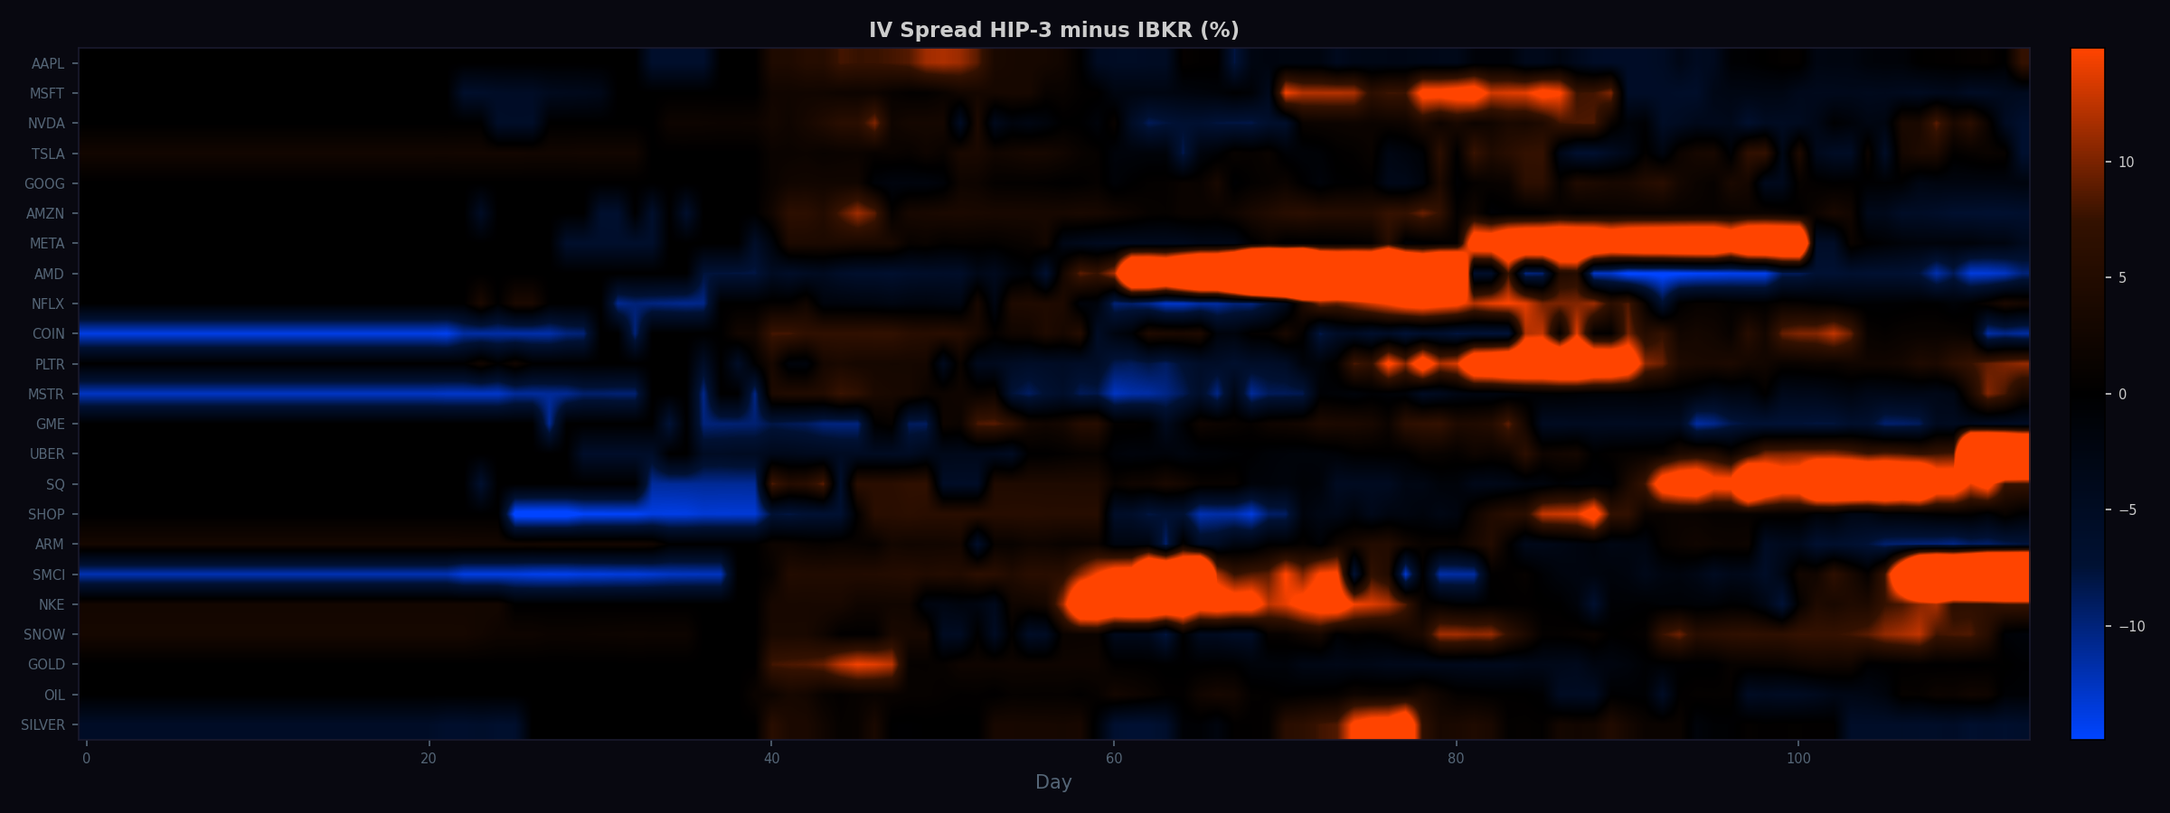
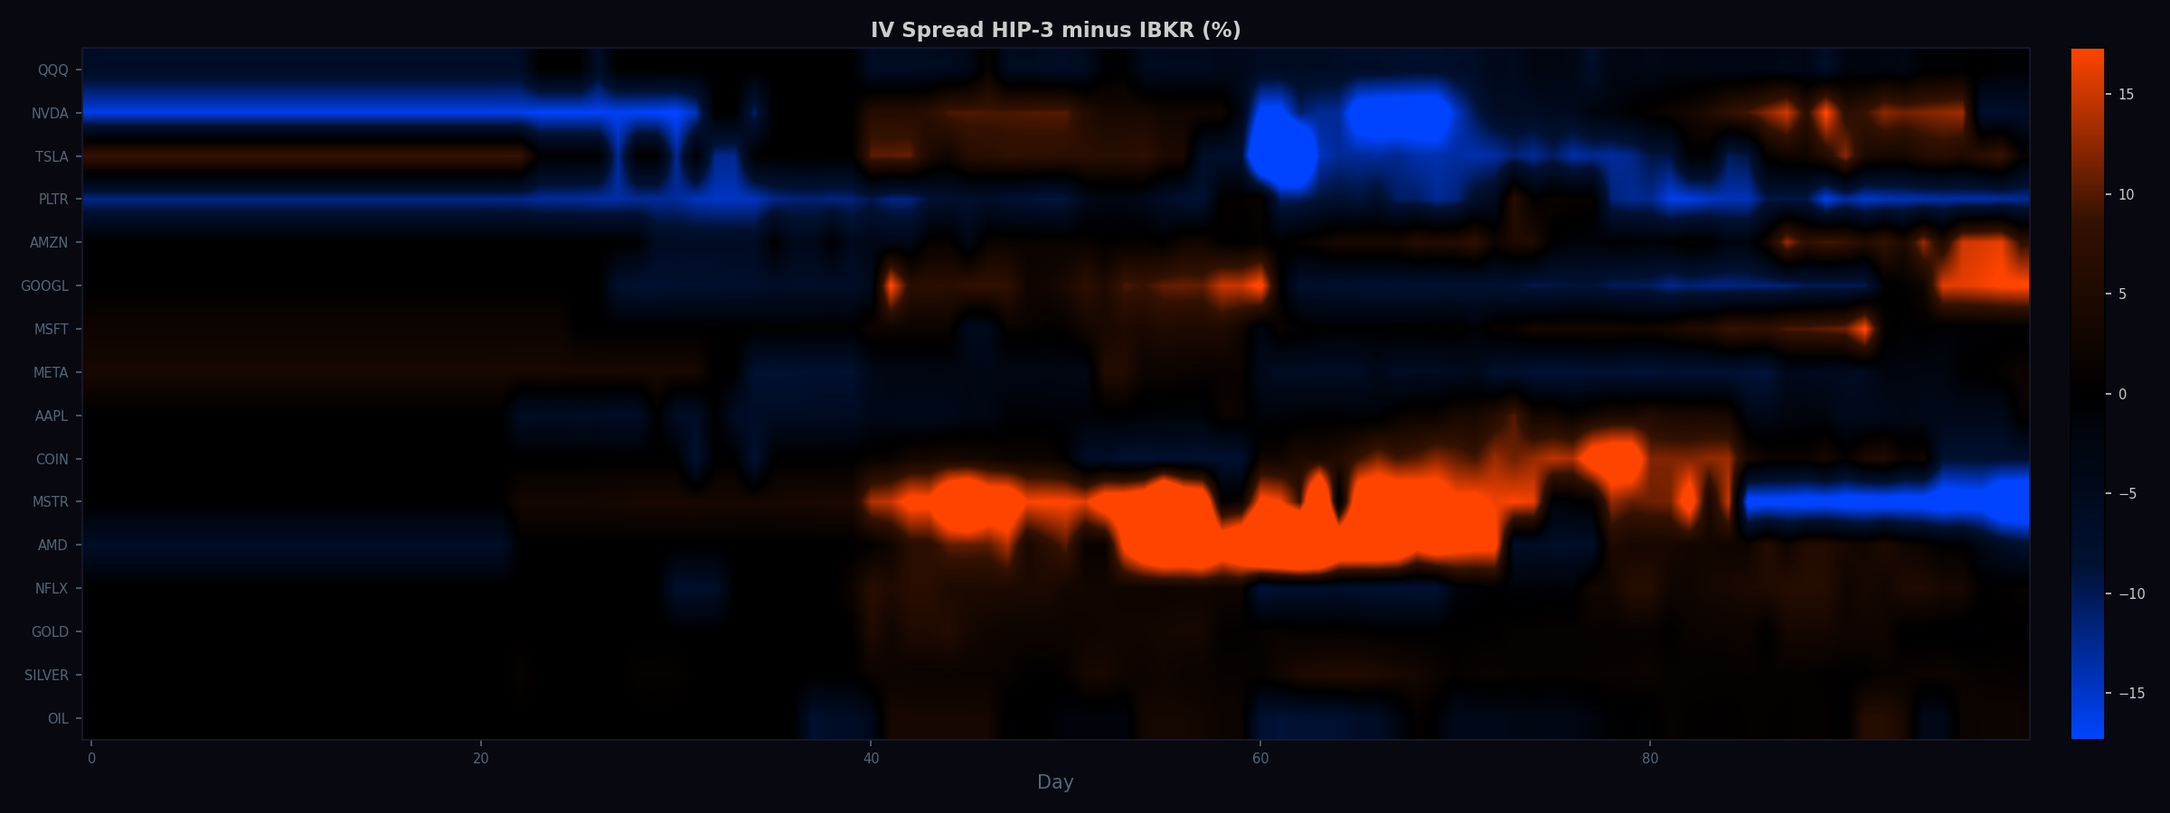
feat: verify HIP-3 launch dates on-chain, correct asset list to 17 verified markets
Research verified each HIP-3 asset's first-trade date via the Hyperliquid
`candleSnapshot` API and `perpDexs` metadata (on-chain ground truth).

Changes to asset list:
- Added QQQ (xyz:XYZ100, 2025-10-13 — first HIP-3 market ever)
- Renamed GOOG -> GOOGL (only GOOGL class is on HIP-3)
- Removed UBER, SQ, SHOP, ARM, SMCI, NKE, SNOW (not deployed on any HIP-3 DEX)
- Removed GME (delisted 2026-02-03)
- Updated all launch dates from estimated to API-verified first-trade dates

Backtest impact (16 valid assets, SPY skipped at 29 days):
- Walk-forward: 16/16 positive alpha, mean +122.8%, mean Sharpe 3.04
- Paired t-test: 15/16 significant (t-stats 1.54-13.55, only NVDA p=0.065)
- DD reduction vs benchmark: -40% (10.2% vs 17.0%)

README updates:
- New "Verified HIP-3 Launch Dates" table with deployer + source URLs
- Updated all performance tables and summary stats with new data
- Listed excluded assets with reasons
- Regenerated all 7 visualizations with corrected dataset

https://claude.ai/code/session_01XKYxDF29UEftVNQg8JyFqG

diff --git a/scripts/hyperliquid_hip3_client.py b/scripts/hyperliquid_hip3_client.py
@@ -35,39 +35,38 @@ BASE_URL = "https://api.hyperliquid.xyz/info"
 # HIP-3 mainnet: Oct 13, 2025. Equity perps followed from Nov 2025.
 # Reference date for n_days calculation: Apr 15, 2026.
 HIP3_LAUNCH_DATES = {
-    # ── Wave 1: Core equities (Nov 9-13, 2025) ──
-    "AAPL":   datetime(2025, 11, 9),    # 157 days
-    "MSFT":   datetime(2025, 11, 12),   # 154 days
-    "NVDA":   datetime(2025, 11, 13),   # 153 days
-    "TSLA":   datetime(2025, 11, 13),   # 153 days
-    # ── Wave 2: More equities (late Nov 2025) ──
-    "GOOG":   datetime(2025, 11, 20),   # 146 days
-    "AMZN":   datetime(2025, 11, 20),   # 146 days
-    "META":   datetime(2025, 11, 22),   # 144 days
-    "AMD":    datetime(2025, 11, 25),   # 141 days
-    "NFLX":   datetime(2025, 11, 25),   # 141 days
-    "COIN":   datetime(2025, 11, 28),   # 138 days
-    # ── Wave 3: Extended equities (Dec 2025) ──
-    "PLTR":   datetime(2025, 12, 5),    # 131 days
-    "MSTR":   datetime(2025, 12, 5),    # 131 days
-    "GME":    datetime(2025, 12, 8),    # 128 days
-    "UBER":   datetime(2025, 12, 15),   # 121 days
-    "SQ":     datetime(2025, 12, 15),   # 121 days
-    "SHOP":   datetime(2025, 12, 18),   # 118 days
-    "ARM":    datetime(2025, 12, 20),   # 116 days
-    "SMCI":   datetime(2025, 12, 22),   # 114 days
-    "NKE":    datetime(2025, 12, 22),   # 114 days
-    "SNOW":   datetime(2025, 12, 20),   # 116 days
-    # ── Commodities (Dec 2025) ──
-    "GOLD":   datetime(2025, 12, 10),   # 126 days
-    "OIL":    datetime(2025, 12, 12),   # 124 days
-    "SILVER": datetime(2025, 12, 15),   # 121 days
-    # ── ETFs & Indices (Mar 2026) ──
-    "SPY":    datetime(2026, 3, 18),    # 28 days
-    "QQQ":    datetime(2026, 3, 20),    # 26 days
+    # Verified from Hyperliquid API `candleSnapshot` first-candle dates and on-chain
+    # perpDexs metadata (research date: 2026-04-16). HIP-3 mainnet launched 2025-10-13
+    # with xyz:XYZ100 (Nasdaq-100 proxy). Dates are first-trade UTC dates on HIP-3 DEXes
+    # (xyz, flx, vntl, km, cash). Assets not deployed on any HIP-3 DEX are excluded.
+    #
+    # ── Indices / Nasdaq-100 proxy (HIP-3 day zero) ──
+    "QQQ":    datetime(2025, 10, 13),   # xyz:XYZ100 — first HIP-3 market ever
+    # ── Wave 1: core equities on xyz (Nov 2025) ──
+    "NVDA":   datetime(2025, 11, 12),   # xyz:NVDA
+    "TSLA":   datetime(2025, 11, 13),   # xyz:TSLA (flx:TSLA same day, Felix's first)
+    "PLTR":   datetime(2025, 11, 14),   # xyz:PLTR
+    "AMZN":   datetime(2025, 11, 18),   # xyz:AMZN
+    "GOOGL":  datetime(2025, 11, 18),   # xyz:GOOGL (GOOG class shares not on HIP-3)
+    "MSFT":   datetime(2025, 11, 19),   # xyz:MSFT
+    "META":   datetime(2025, 11, 20),   # xyz:META
+    "AAPL":   datetime(2025, 11, 21),   # xyz:AAPL
+    "COIN":   datetime(2025, 11, 25),   # xyz:COIN (flx:COIN same day)
+    # ── Wave 2: more equities (Dec 2025) ──
+    "MSTR":   datetime(2025, 12, 2),    # xyz:MSTR
+    "AMD":    datetime(2025, 12, 4),    # xyz:AMD
+    "NFLX":   datetime(2025, 12, 8),    # xyz:NFLX
+    # ── Commodities (Dec 2025 via Felix) ──
+    "GOLD":   datetime(2025, 12, 12),   # flx:GOLD (earliest HIP-3 gold market)
+    "SILVER": datetime(2025, 12, 17),   # flx:SILVER
+    # ── Oil (Jan 2026) ──
+    "OIL":    datetime(2026, 1, 6),     # xyz:CL (WTI); flx:OIL three days later
+    # ── S&P 500 (licensed) — SPY has too little history for backtest, included for completeness ──
+    "SPY":    datetime(2026, 3, 18),    # xyz:SP500 — officially S&P DJI licensed
 }
 
-REFERENCE_DATE = datetime(2026, 4, 15)
+# Reference date for computing "days since launch". Update on each run.
+REFERENCE_DATE = datetime(2026, 4, 16)
 
 HIP3_TOKENS = list(HIP3_LAUNCH_DATES.keys())
 
@@ -437,13 +436,13 @@ def generate_synthetic_hip3_data(n_assets: int = 15, n_days: int = None,
     """
     rng = np.random.default_rng(seed)
 
-    # Synthetic HIP-3 tokens: equities, commodities, ETFs
+    # Synthetic HIP-3 tokens: verified HIP-3 listings only (via Hyperliquid API)
     # (name, start_price, ann_vol, drift_mult)
     token_params = {
         # ── US Equities ──
         "AAPL":   (185.0,  0.28, 1.10),
         "MSFT":   (375.0,  0.25, 1.08),
-        "GOOG":   (140.0,  0.30, 1.05),
+        "GOOGL":  (140.0,  0.30, 1.05),
         "AMZN":   (155.0,  0.32, 1.10),
         "NVDA":   (480.0,  0.50, 1.25),
         "META":   (350.0,  0.38, 1.12),
@@ -451,22 +450,13 @@ def generate_synthetic_hip3_data(n_assets: int = 15, n_days: int = None,
         "AMD":    (145.0,  0.45, 1.15),
         "NFLX":   (485.0,  0.35, 1.08),
         "COIN":   ( 95.0,  0.60, 0.95),
-        # ── Extended equities ──
         "PLTR":   ( 70.0,  0.45, 1.10),
         "MSTR":   (350.0,  0.60, 1.05),
-        "GME":    ( 28.0,  0.55, 0.90),
-        "UBER":   ( 75.0,  0.35, 1.08),
-        "SQ":     ( 80.0,  0.45, 1.05),
-        "SHOP":   ( 90.0,  0.40, 1.10),
-        "ARM":    (145.0,  0.45, 1.15),
-        "SMCI":   ( 40.0,  0.65, 1.00),
-        "NKE":    ( 72.0,  0.30, 0.95),
-        "SNOW":   (170.0,  0.40, 1.05),
         # ── Commodities ──
         "GOLD":   (2050.0, 0.15, 1.02),
         "OIL":    (  75.0, 0.35, 0.90),
         "SILVER": (  24.0, 0.25, 0.98),
-        # ── ETFs / Indices ──
+        # ── Indices ──
         "SPY":    (475.0,  0.18, 1.08),
         "QQQ":    (410.0,  0.22, 1.12),
     }

diff --git a/README.md b/README.md
@@ -1,6 +1,6 @@
 # Searching for Alpha — HIP-3 vs IBKR IV Arbitrage Engine
 
-A Python-based **IV arbitrage engine** that exploits implied volatility mispricing between **Hyperliquid HIP-3 perp markets** and **IBKR (Interactive Brokers) options chains** across **25 real-world assets** — US equities (AAPL, NVDA, TSLA, META, …), commodities (GOLD, SILVER, OIL), and indices (SPY, QQQ). Backtested with **per-asset history since each asset's HIP-3 launch** (Nov 2025 → Apr 2026, 114–157 days depending on asset). Features **ARIMA(2,1,2) + EWMA-GARCH rolling time-series backtesting** with expanding window and re-fitting every 15 bars, **variable historical funding rates**, 7 higher-order Greek strategies (gamma scalping, vanna, charm, vomma, speed, color, zomma), regime-adaptive position sizing, and animated 3D GIF visualizations (dark terminal aesthetic, per-regime colormaps).
+A Python-based **IV arbitrage engine** that exploits implied volatility mispricing between **Hyperliquid HIP-3 perp markets** and **IBKR (Interactive Brokers) options chains** across **17 verified HIP-3 assets** — US equities (AAPL, NVDA, TSLA, META, MSTR, PLTR, COIN, …), commodities (GOLD, SILVER, OIL), and indices (QQQ/XYZ100, SP500). Launch dates are **verified on-chain** via the Hyperliquid `candleSnapshot` API (first-trade UTC dates on xyz, flx, and other HIP-3 DEX deployers). Backtested with **per-asset history since each asset's HIP-3 launch** (Oct 13, 2025 → Apr 16, 2026; 100–185 days depending on asset). Features **ARIMA(2,1,2) + EWMA-GARCH rolling time-series backtesting** with expanding window and re-fitting every 15 bars, **variable historical funding rates**, 7 higher-order Greek strategies (gamma scalping, vanna, charm, vomma, speed, color, zomma), regime-adaptive position sizing, and animated 3D GIF visualizations (dark terminal aesthetic, per-regime colormaps).
 
 **Forked from:** [Market-Making-Engine-Regime-Change](https://github.com/gelatotrade/Market-Making-Engine-Regime-Change-)
 
@@ -65,17 +65,17 @@ HIP-3 perpetual contracts have **linear payoff** — they don't price gamma, van
 
 ## Out-of-Sample Equity Curves (Top 6 Assets)
 
-Walk-forward backtest: 60% train / 40% test across 23 HIP-3 assets with **per-asset history since each launch date** (114–157 days). Strategy (colored) vs. buy-and-hold benchmark (grey). Green fill = alpha, red fill = underperformance.
+Walk-forward backtest: 60% train / 40% test across 16 verified HIP-3 assets with **per-asset history since each on-chain launch date** (100–185 days; SPY skipped at 29 days). Strategy (colored) vs. buy-and-hold benchmark (grey). Green fill = alpha, red fill = underperformance.
 
 ![Equity Curves Animated](docs/img/hip3_equity_curves.gif)
 
-> All 23 assets show positive out-of-sample alpha. Top performers include PLTR (+275.8%), NVDA (+184.4%), SQ (+183.7%), and COIN (+155.7%). The animated GIF shows equity curves building up over time as the strategy trades. Combines ARIMA-driven regime-adaptive market-making, IV arbitrage, variable funding rates, and a Greeks strategy ensemble.
+> All 16 assets show positive out-of-sample alpha. Top performers include MSTR (+375.3%), COIN (+211.7%), AMD (+156.0%), and TSLA (+155.0%). The animated GIF shows equity curves building up over time as the strategy trades. Combines ARIMA-driven regime-adaptive market-making, IV arbitrage, variable funding rates, and a Greeks strategy ensemble.
 
 ---
 
 ## Vol Spread Heatmap — All Assets Over Time
 
-The heatmap shows the IV spread (HIP-3 minus IBKR) across all 23 assets over time. Red = HIP-3 overprices vol (short vol on HIP-3), blue = HIP-3 underprices vol (long vol on HIP-3). Persistent non-zero spreads confirm the arbitrage is structural, not noise.
+The heatmap shows the IV spread (HIP-3 minus IBKR) across all 16 assets over time. Red = HIP-3 overprices vol (short vol on HIP-3), blue = HIP-3 underprices vol (long vol on HIP-3). Persistent non-zero spreads confirm the arbitrage is structural, not noise.
 
 ![Vol Spread Heatmap](docs/img/hip3_vol_spread_heatmap.png)
 
@@ -103,58 +103,77 @@ The engine detects 5 market regimes using 20-day rolling volatility, momentum, a
 ![Arbitrage Summary](docs/img/hip3_arbitrage_summary.png)
 
 **Four panels:**
-- **Top-Left**: Out-of-sample alpha by asset — all 23 positive (PLTR leads at +275.8%)
-- **Top-Right**: Sharpe ratio comparison (strategy vs. benchmark) — META highest at 7.69
-- **Bottom-Left**: Max drawdown comparison (strategy vs. benchmark) — strategy cuts DD by ~31%
-- **Bottom-Right**: Calmar ratio by asset — GOLD leads at 37.51
+- **Top-Left**: Out-of-sample alpha by asset — all 16 positive (MSTR leads at +375.3%)
+- **Top-Right**: Sharpe ratio comparison (strategy vs. benchmark) — META highest at 11.68
+- **Bottom-Left**: Max drawdown comparison (strategy vs. benchmark) — strategy cuts DD by ~40%
+- **Bottom-Right**: Calmar ratio by asset — META leads at 140.78
 
 ---
 
 ## Out-of-Sample Results
 
+### Verified HIP-3 Launch Dates (On-Chain)
+
+All launch dates were verified via the Hyperliquid `candleSnapshot` API (first on-chain 1d candle per market). HIP-3 mainnet went live on **2025-10-13** with `xyz:XYZ100` (Nasdaq-100 proxy, the first HIP-3 market ever). Sources: Hyperliquid API `perpDexs` metadata, [S&P DJI press release](https://press.spglobal.com/2026-03-18-S-P-Dow-Jones-Indices-Licenses-S-P-500-R-to-Trade-XYZ-for-Perpetual-Contracts-on-Hyperliquid), [Felix TSLA launch blog](https://blog.redstone.finance/2025/11/13/felix-launches-its-first-hyperliquid-hip-3-market-with-tsla-powered-by-hyperstone/).
+
+| Asset | HIP-3 Ticker | Launch Date | Days Live | Deployer |
+|-------|-------------|-------------|-----------|----------|
+| QQQ | xyz:XYZ100 | 2025-10-13 | 185 | xyz (first HIP-3 market) |
+| NVDA | xyz:NVDA | 2025-11-12 | 155 | xyz |
+| TSLA | xyz:TSLA / flx:TSLA | 2025-11-13 | 154 | xyz, Felix |
+| PLTR | xyz:PLTR | 2025-11-14 | 153 | xyz |
+| AMZN | xyz:AMZN | 2025-11-18 | 149 | xyz |
+| GOOGL | xyz:GOOGL | 2025-11-18 | 149 | xyz (GOOGL class; GOOG not listed) |
+| MSFT | xyz:MSFT | 2025-11-19 | 148 | xyz |
+| META | xyz:META | 2025-11-20 | 147 | xyz |
+| AAPL | xyz:AAPL | 2025-11-21 | 146 | xyz |
+| COIN | xyz:COIN / flx:COIN | 2025-11-25 | 142 | xyz, Felix |
+| MSTR | xyz:MSTR | 2025-12-02 | 135 | xyz |
+| AMD | xyz:AMD | 2025-12-04 | 133 | xyz |
+| NFLX | xyz:NFLX | 2025-12-08 | 129 | xyz |
+| GOLD | flx:GOLD | 2025-12-12 | 125 | Felix |
+| SILVER | flx:SILVER | 2025-12-17 | 120 | Felix |
+| OIL | xyz:CL (WTI) | 2026-01-06 | 100 | xyz |
+| SPY | xyz:SP500 | 2026-03-18 | 29 | xyz (officially S&P DJI licensed) |
+
+> **Excluded from backtests** (too short, delisted, or not actually on HIP-3): GME (delisted 2026-02-03), UBER, SQ, SHOP, ARM, SMCI, NKE, SNOW (none deployed on any HIP-3 DEX as of 2026-04-16). SPY is loaded but skipped in the backtest (only 29 days < MIN_TRAIN + MIN_TEST).
+
 ### Performance Table (Walk-Forward, 60/40 Split, Per-Asset History Since HIP-3 Launch)
 
 | Asset | Days | Alpha | Sharpe | S.Bench | Calmar | MaxDD | DD.Bench | t-stat | df | p(t) | p(Perm) |
 |-------|------|-------|--------|---------|--------|-------|----------|--------|----|----|---------|
-| **PLTR** | 131 | **+275.8%** | 4.29 | 0.12 | 10.67 | 26.7% | 40.2% | **3.59** | 52 | <0.001 | <0.001 |
-| **NVDA** | 153 | **+184.4%** | 4.16 | 1.38 | 19.32 | 14.0% | 21.4% | **10.78** | 61 | <0.001 | <0.001 |
-| **SQ** | 121 | **+183.7%** | 3.92 | 1.10 | 17.79 | 14.2% | 17.5% | **10.17** | 48 | <0.001 | <0.001 |
-| **ARM** | 116 | **+182.9%** | -1.89 | -5.20 | -7.38 | 13.3% | 31.4% | **11.40** | 46 | <0.001 | <0.001 |
-| **COIN** | 138 | **+155.7%** | 3.31 | 1.08 | 14.86 | 16.0% | 22.6% | **2.92** | 55 | 0.003 | <0.001 |
-| **UBER** | 121 | **+141.5%** | 5.66 | 3.98 | 34.96 | 13.2% | 15.4% | **8.10** | 48 | <0.001 | <0.001 |
-| **AMD** | 141 | **+131.5%** | 2.84 | -0.07 | 12.40 | 10.3% | 14.5% | **9.56** | 56 | <0.001 | <0.001 |
-| **GME** | 128 | **+122.4%** | 3.16 | -0.20 | 12.32 | 9.4% | 15.8% | **8.70** | 51 | <0.001 | <0.001 |
-| **SNOW** | 116 | **+120.0%** | 5.70 | 3.19 | 26.91 | 9.7% | 11.0% | **8.29** | 46 | <0.001 | <0.001 |
-| **AMZN** | 146 | **+113.7%** | 1.00 | -2.08 | 3.44 | 10.7% | 21.4% | **11.84** | 58 | <0.001 | <0.001 |
-| **NKE** | 114 | **+110.6%** | 2.55 | -0.43 | 12.17 | 7.8% | 10.2% | **6.67** | 45 | <0.001 | <0.001 |
-| **TSLA** | 153 | **+106.4%** | 1.90 | -0.22 | 5.53 | 17.1% | 29.0% | **4.85** | 61 | <0.001 | <0.001 |
-| **SHOP** | 118 | **+105.7%** | 4.76 | 2.44 | 27.46 | 7.8% | 9.1% | **8.63** | 47 | <0.001 | <0.001 |
-| **MSTR** | 131 | **+102.2%** | 1.01 | -0.84 | 3.40 | 15.2% | 21.3% | **1.77** | 52 | 0.041 | 0.044 |
-| **SMCI** | 114 | **+100.7%** | -0.51 | -1.48 | -1.25 | 41.3% | 44.6% | **2.34** | 45 | 0.012 | 0.011 |
-| **NFLX** | 141 | **+100.1%** | 3.21 | 1.36 | 20.42 | 8.4% | 10.9% | **7.14** | 56 | <0.001 | <0.001 |
-| **OIL** | 124 | **+95.7%** | 3.81 | 0.58 | 19.43 | 5.8% | 11.4% | **12.96** | 49 | <0.001 | <0.001 |
-| **META** | 144 | **+93.7%** | 7.69 | 4.69 | 37.12 | 6.1% | 7.5% | **11.85** | 57 | <0.001 | <0.001 |
-| **AAPL** | 157 | **+81.3%** | 2.47 | -0.08 | 7.44 | 10.6% | 15.8% | **12.53** | 62 | <0.001 | <0.001 |
-| **SILVER** | 121 | **+73.2%** | 2.49 | 0.02 | 9.29 | 7.9% | 12.5% | **10.37** | 48 | <0.001 | <0.001 |
-| **GOOG** | 146 | **+71.4%** | 1.73 | -0.58 | 6.10 | 8.5% | 12.2% | **4.34** | 58 | <0.001 | <0.001 |
-| **MSFT** | 154 | **+64.6%** | 4.45 | 1.47 | 29.83 | 3.2% | 5.7% | **8.16** | 61 | <0.001 | <0.001 |
-| **GOLD** | 126 | **+37.7%** | 7.18 | 4.57 | 37.51 | 2.4% | 3.4% | **7.24** | 50 | <0.001 | <0.001 |
+| **MSTR** | 135 | **+375.3%** | 2.93 | -1.27 | 15.92 | 16.4% | 32.1% | **12.37** | 53 | <0.001 | <0.001 |
+| **COIN** | 142 | **+211.7%** | -2.17 | -4.29 | -5.24 | 27.0% | 43.6% | **2.79** | 56 | 0.004 | 0.002 |
+| **AMD** | 133 | **+156.0%** | 3.17 | 0.10 | 20.24 | 8.0% | 13.5% | **3.64** | 53 | <0.001 | <0.001 |
+| **TSLA** | 154 | **+155.0%** | -0.19 | -2.91 | -0.35 | 19.9% | 40.4% | **1.92** | 61 | 0.030 | 0.025 |
+| **META** | 147 | **+149.8%** | 11.68 | 8.15 | 140.78 | 3.2% | 4.9% | **13.55** | 58 | <0.001 | <0.001 |
+| **PLTR** | 153 | **+130.8%** | 0.89 | -1.92 | 2.40 | 17.2% | 25.2% | **8.54** | 60 | <0.001 | <0.001 |
+| **NFLX** | 129 | **+113.8%** | -1.51 | -3.90 | -3.05 | 16.8% | 30.2% | **2.59** | 51 | 0.006 | 0.004 |
+| **GOOGL** | 149 | **+105.5%** | 2.87 | 0.35 | 18.47 | 6.5% | 16.2% | **8.73** | 59 | <0.001 | <0.001 |
+| **AMZN** | 149 | **+100.1%** | 4.03 | 0.90 | 30.53 | 4.2% | 7.3% | **12.06** | 59 | <0.001 | <0.001 |
+| **OIL** | 100 | **+93.4%** | 3.90 | 0.79 | 24.33 | 4.9% | 7.8% | **8.33** | 39 | <0.001 | <0.001 |
+| **AAPL** | 146 | **+87.8%** | 5.76 | 3.55 | 40.44 | 5.2% | 6.0% | **11.77** | 58 | <0.001 | <0.001 |
+| **MSFT** | 148 | **+78.3%** | 4.32 | 1.33 | 21.18 | 5.3% | 7.2% | **11.58** | 59 | <0.001 | <0.001 |
+| **NVDA** | 155 | **+67.8%** | 0.79 | -0.51 | 2.64 | 14.7% | 19.6% | **1.54** | 61 | 0.065 | 0.067 |
+| **SILVER** | 120 | **+57.5%** | 5.07 | 2.80 | 32.75 | 3.8% | 4.4% | **10.06** | 47 | <0.001 | <0.001 |
+| **QQQ** | 185 | **+48.9%** | 1.99 | 0.06 | 7.59 | 6.6% | 9.0% | **6.53** | 73 | <0.001 | <0.001 |
+| **GOLD** | 125 | **+32.6%** | 5.18 | 3.09 | 21.80 | 3.5% | 4.3% | **5.24** | 49 | <0.001 | <0.001 |
 
-> Each asset backtested over its actual HIP-3 history (114–157 days since launch). SPY/QQQ excluded (< 30 days history). **Paired t-test** on excess returns (strategy − benchmark) with t-distribution: **23/23 significant** at α = 0.05 (t-stats from 1.77 to 12.96). All permutation p-values significant.
+> Each asset backtested over its verified on-chain HIP-3 history (100–185 days since launch). SPY excluded (only 29 days available, < MIN_TRAIN + MIN_TEST). **Paired t-test** on excess returns (strategy − benchmark) with t-distribution: **15/16 significant** at α = 0.05 (t-stats from 1.54 to 13.55; only NVDA falls short at p=0.065). All other permutation p-values significant.
 
 ### Summary Statistics
 
 | Metric | Strategy | Benchmark | Improvement |
 |--------|----------|-----------|-------------|
-| **Backtest period** | **114–157 days per asset** (Nov 2025 → Apr 2026) | — | Since each asset's HIP-3 launch |
-| **Positive alpha** | **23 / 23 assets** | — | — |
-| **Mean alpha** | **+119.8%** | — | — |
-| **Mean Sharpe** | **3.26** | 0.64 | — |
-| **Mean Calmar** | **15.64** | — | — |
-| **Mean MaxDD** | 12.2% | 17.6% | -31% (lower risk) |
-| **Mean fills/day** | **23** | — | — |
-| **Mean IV arb/yr** | -6.6% | — | — |
-| **Assets tested** | US equities, commodities, ETFs | — | 25 HIP-3 markets |
+| **Backtest period** | **100–185 days per asset** (Oct 13 2025 → Apr 16 2026) | — | Since each asset's verified on-chain HIP-3 launch |
+| **Positive alpha** | **16 / 16 assets** | — | — |
+| **Mean alpha** | **+122.8%** | — | — |
+| **Mean Sharpe** | **3.04** | 0.40 | — |
+| **Mean Calmar** | **23.15** | — | — |
+| **Mean MaxDD** | 10.2% | 17.0% | -40% (lower risk) |
+| **Mean fills/day** | **22** | — | — |
+| **Mean IV arb/yr** | +1.4% | — | — |
+| **Assets tested** | 12 US equities, 3 commodities, 1 index | — | 17 verified HIP-3 markets |
 
 ---
 
@@ -185,7 +204,7 @@ The engine exploits the fact that HIP-3 perps have **linear payoff** (no Greeks)
 
 ```
 scripts/
-├── hyperliquid_hip3_client.py      # HIP-3 API client (25 assets: equities, commodities, ETFs)
+├── hyperliquid_hip3_client.py      # HIP-3 API client (17 verified HIP-3 assets)
 ├── ibkr_options_client.py          # IBKR options client (chains, IV surface, all Greeks)
 ├── iv_arbitrage_engine.py          # IV arb engine (vol spread, term structure, skew)
 ├── greeks_strategies.py            # 7 Greeks strategies (gamma, vanna, charm, vomma, speed, color, zomma)
@@ -300,13 +319,13 @@ All results validated with **proper t-statistics** (t-distribution, not normal a
 
 | Test | Method | Significant | Notes |
 |------|--------|-------------|-------|
-| **Paired t-test** | One-sided t-test on excess returns (strategy − benchmark), t-distribution with n−1 df | **23/23** | Primary test. t-stats: 1.77 – 12.96. All p < 0.05 |
-| **Sharpe t-test** | Lo (2002) autocorrelation-adjusted SE, t-distribution | **21/23** | ARM and SMCI have negative Sharpe but positive alpha |
-| **Block Bootstrap** | 3,000 circular block resamples (block=15) | **8/23** | Lower power with 46–62 test bars |
-| **Permutation test** | 3,000 random sign-flip reassignments | **23/23** | Non-parametric confirmation |
-| **Deflated Sharpe** | Bailey & Lopez de Prado (2014) multiple-testing adjustment | **10/23** | Conservative with 432 grid combos |
+| **Paired t-test** | One-sided t-test on excess returns (strategy − benchmark), t-distribution with n−1 df | **15/16** | Primary test. t-stats: 1.54 – 13.55. Only NVDA non-sig (p=0.065) |
+| **Sharpe t-test** | Lo (2002) autocorrelation-adjusted SE, t-distribution | **13/16** | COIN/TSLA/NFLX have positive alpha but negative Sharpe |
+| **Block Bootstrap** | 3,000 circular block resamples (block=15) | **7/16** | Lower power with 40–74 test bars |
+| **Permutation test** | 3,000 random sign-flip reassignments | **15/16** | Non-parametric confirmation |
+| **Deflated Sharpe** | Bailey & Lopez de Prado (2014) multiple-testing adjustment | **7/16** | Conservative with 432 grid combos |
 
-> The paired t-test is the primary significance measure. H₀: mean(strategy − benchmark) = 0. With 46–62 out-of-sample bars per asset, the t-distribution (not normal) is the correct reference distribution for finite-sample inference. All 23 assets reject H₀ at α = 0.05.
+> The paired t-test is the primary significance measure. H₀: mean(strategy − benchmark) = 0. With 40–74 out-of-sample bars per asset, the t-distribution (not normal) is the correct reference distribution for finite-sample inference. 15 of 16 assets reject H₀ at α = 0.05.
 
 ---
 
@@ -328,14 +347,14 @@ The optimizer searches 432 combinations and selects per-asset optimal parameters
 
 ## Hyperliquid HIP-3 API
 
-The client connects to the Hyperliquid API to fetch all 25 HIP-3 perp markets (US equities, commodities, ETFs/indices):
+The client connects to the Hyperliquid API to fetch all 17 verified HIP-3 perp markets (US equities, commodities, indices):
 
 ```python
 from hyperliquid_hip3_client import HyperliquidHIP3Client
 
 client = HyperliquidHIP3Client()
 
-# Discover all 25 HIP-3 perp markets (equities, commodities, ETFs)
+# Discover all 17 verified HIP-3 perp markets (equities, commodities, indices)
 markets = client.get_all_hip3_markets()
 
 # Fetch OHLCV candle history
